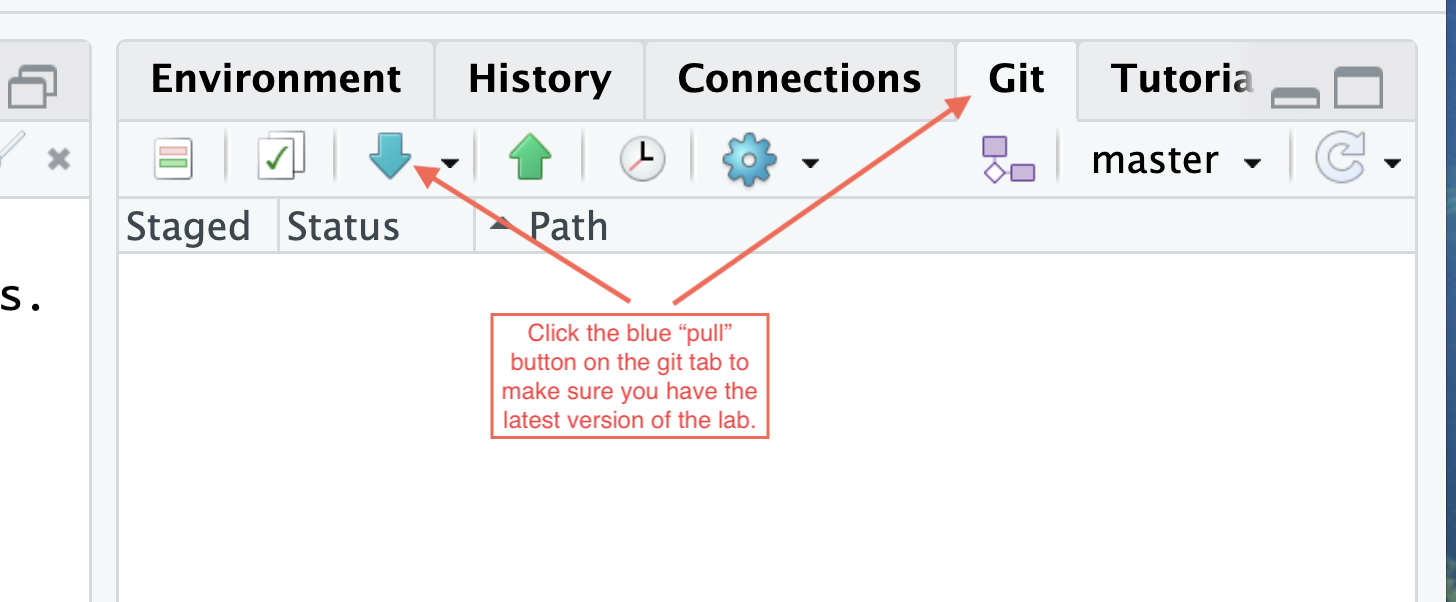
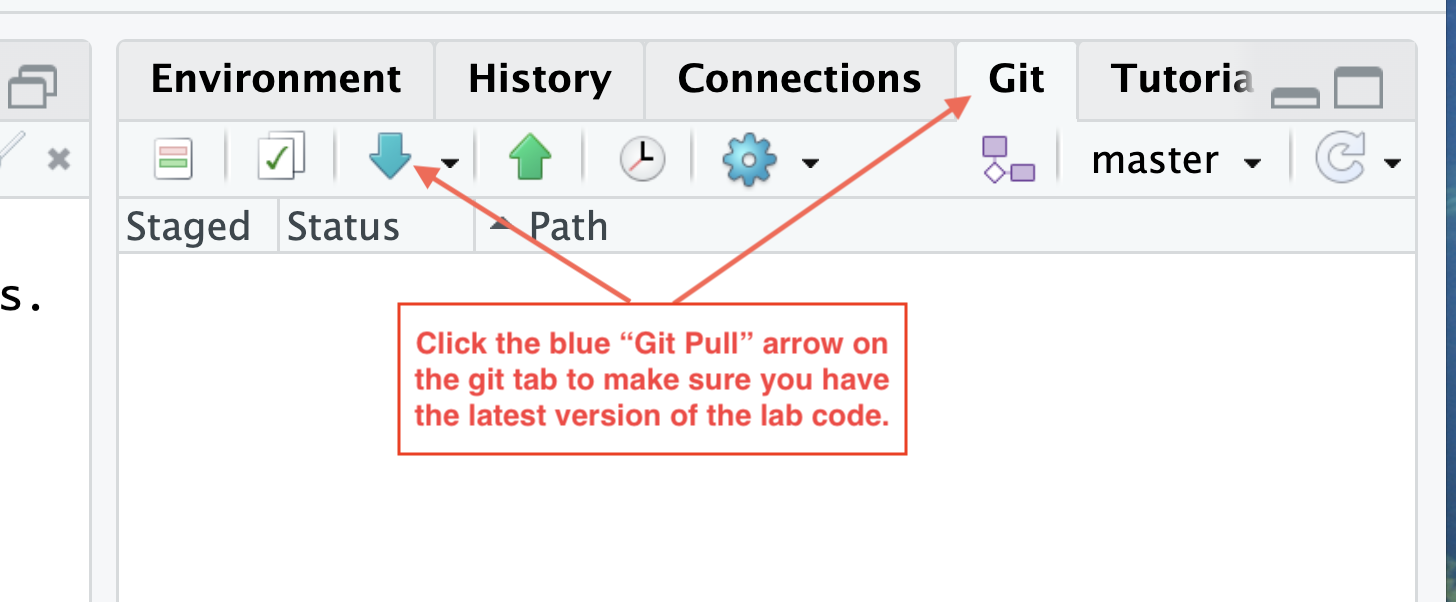
Updated intro to R

Changed region(s): [[0.2782, 0.4784, 0.6181, 0.7774]]

diff --git a/docs/labs/R/intro_to_rstudio.md b/docs/labs/R/intro_to_rstudio.md
@@ -10,9 +10,6 @@ nav_order: 1
 
 # Downloading and Installing R and RStudio
 
-## Resources for this project
-1. [R Markdown document](intro_to_rstudio.Rmd) called "The (very) basics of RStudio" for this exercise. You'll learn to use it below.
-
 ## What is R?
 
 R started as a free, open-source version of the statistical programming language S and S+. However, because it is open-source, many biologists have learned to use it and contributed to it and it is now the industry-standard statistical software. You can use it to do statistical analysis (not surprisingly), draw complex graphs, control other software, analyze DNA sequences and much more.
@@ -23,12 +20,24 @@ Because this is a biology class, we will only learn some very basic things about
 
 ## Choosing between RStudio and Posit Cloud
 
-There are 2 convenient ways to use R. I recommend the first option for this class:
-1. Use this option if you use a Mac or a PC for which you can install software. Do *both* of the following steps:
-   - Download and [install R](https://cloud.r-project.org/).
-   - Download and [install RStudio Desktop](https://rstudio.com/products/rstudio/download/). RStudio provides a nice user interface to R. R itself is much more difficult to use without such an interface, and RStudio is very good! Installation should be easy if you use Windows, MacOS, or (standard) Linux. If you use a Chromebook, you won't be able to install it and will have to use one of the online options.
-2. Use this option if you use a Chromebook, iPad or if you cannot install software to your computer.
-   - Use [Posit Cloud](https://posit.cloud/). This provides full functionality in a convenient web app. To use this option, you'll need to sign up for a free account. Although this option won't require you to install anything, you'll find that getting your files into and out of Posit Cloud more difficult than if you used the stand-alone apps in option 1. The user interface for Posit Cloud and RStudio are identical. You should be able to use Posit Cloud with an iPad, however getting files in and out is much more difficult, and you really should have a keyboard! Please use any computer other than an iPad.
+There are 2 convenient ways to use R. The first option is easiest and just requires you to sign up for a free online Posit Cloud account. Use the first option if you really aren't interested in installing software on your computer. Also, use the first option if you have a chromebook or iPad if if, for some reason, you are unable to install all the steps for the second option. The second option is a more 'standard' way to use R, will require a bit more setup, but will be easier and faster in the long run. 
+1. Online option. Use this option if you use a Chromebook, iPad or if you cannot install software to your computer.
+   - Use [Posit Cloud](https://posit.cloud/). This provides full functionality in a convenient web app. To use this option, you'll need to sign up for a free account. Although this option won't require you to install anything, you'll find that getting your files into and out of Posit Cloud more difficult than if you used the stand-alone apps in option 1. The user interface for Posit Cloud and RStudio are identical. You should be able to use Posit Cloud with an iPad, however getting files in and out is much more difficult, and you really should have a keyboard!
+2. Use this option if you use a Mac or a PC for which you can install software. Do *all 3* of the following steps:
+    1. Download and install a program called "git".
+        1. If you have a Mac:
+            1. Go to the app launcher and search for and start "Terminal.app". It is likely in your "Applications" folder in a subfolder called "Utilities".
+            2. Once Terminal is open, simply type "git --version". 
+                1. If the computer responds with something like "git version 2.50.1 (Apple Git-155)", then you have git and are ready to install R.
+                2. If the computer responds with something like "command not found: git", then your computer should prompt you with a dialog box to install it. You should just be able to follow directions. 
+        2. If you have a Windows PC:
+            1. Go to this website to [install Git](https://git-scm.com/install/)
+            2. Choose the "Windows" tab.
+            3. Choose either of "Git for Windows/x64 Setup" or "Git for Windows/ARM64 Setup." depending on your computer. You probably have an "x64" processor, so try that one. If it doesn't work, [check out this video](https://youtu.be/Z_lcEqomG0k) to determine which type you have.
+            4. Install git using the installer you just downloaded. 
+    2. Download and [install R](https://cloud.r-project.org/).
+    3. Download and [install RStudio Desktop](https://rstudio.com/products/rstudio/download/). RStudio provides a nice user interface to R. R itself is much more difficult to use without such an interface, and RStudio is very good! Installation should be easy if you use Windows, MacOS, or (standard) Linux. If you use a Chromebook, you won't be able to install it and will have to use the online option.
+
 
 ## Getting Started
 Please follow along by **actually doing** the steps listed below. You can't learn a new skill without practicing. Trust me, this will save you lots of frustration later on.
@@ -47,41 +56,29 @@ The simplest R files are called "R script" files that list, in order, the comman
 **Important note** It is possible to run R one command at a time, but it is **much** better to save your commands in a file. This will allow you to re-run the code easily if you decide to change anything, or if your underlying data changes.
 
 ## Getting Started -- loading an R Markdown file
-1. Download [this file](intro_to_rstudio.Rmd) and save it on your computer. I recommend you stay organized by starting a new folder (directory) for Rmd files for this class.
-    1. I *highly recommend* that you make a new directory (folder) on your computer to store Rmd files for this class. Believe me, this will make your life easier, so don't skip doing this.
-    2. Whenever you download an analysis file, save it into this newly-created directory and open it from there.
-2. Use the following steps for every lab in which we use R.
-3. If you are using a stand-alone version of RStudio
-   1. Go to the file menu, and select "Open File..."
-   2. Find the file where you saved it. It will open in the top-left quadrant.
-   3. Go to the "Session" menu and select "Set Working Directory" and then "To source file location" (Figure 6 above and 7 below.)
-4. If you are using Posit Cloud
-   1. Go to "Your Workspace" (see red boxes in Figure 2).
-       {% include figure.html url="/b40/assets/labs/01_LoadingFilesRstudio.png" width="80%" caption="Figure 2. Loading files in Posit Cloud" %}
-   2. Click on "New Project". R will start.
-   3. In the bottom-right quadrant, choose "Upload" and direct Posit Cloud to the file you downloaded and saved on your computer.
-         {% include figure.html url="/b40/assets/labs/01_UploadButton.png" width="80%" caption="Figure 3. Location of Upload button" %}
-   4. You will see that file appear in the list of files. Click on it and it will open in the top-left quadrant.
-         {% include figure.html url="/b40/assets/labs/01_InstallKnitr.png" width="80%" caption="Figure 5. Location of uploaded file and Message to install Knitr" %}
-   5. You will *probably* be given a warning that a package called 'knitr' is required but not installed. Click install. It will install on the web server, not on your computer.
-   6. Go to the "Session" menu and select "Set Working Directory" and then "To source file location".
+1. Download the b40r project into Rby doing the following:
+    1. If you are using Posit Cloud, make sure you are in a workspace, and then on the right, choose "New Project" and then "New Project from Git Repository", then type or copy "https://github.com/senanu/b40r.git"
+    1. If you are using RStudio on your own computer, go to File>New Project>Version Control>Git and type or copy "https://github.com/senanu/b40r.git" into the dialog. In the "create project as subdirectory of" box, choose a place (folder/directory) on your computer where you'd like to save everything.
+1. In the bottom-right pane, select the "Files" tab. You should see a list of files and directories (folders), starting with a directory called ".github". All of the R Markdown files you need for this class will be located in the "R" directory. 
+    1. Click that "R" directory, and then **click the link to "intro_to_rstudio.Rmd"**. 
+    1. The file should open in the top-left pane.
+1. You will *probably* be given a yellow warning that a package called 'rmarkdown' and 'knitr' are required but not installed. Click "install" on the yellow banner. It will install on the web server, not on your computer.
+    {% include figure.html url="/b40/assets/labs/01_InstallKnitr.png" width="80%" caption="Figure 5. Location of uploaded file and Message to install Knitr" %}
+    
+### For each lab:
+1. Use the following steps for every lab in which we use R. This will help ensure that you have the newest files and that the data and objects you are working with are not accidentally saved from a previous lab.
+    1. Use Git to "Pull" the latest version of the code onto your computer. Click the blue down arrow in the "Git" tab of the top right pane.
+         {% include figure.html url="/b40/assets/labs/01_git_pull.png" width="80%" caption="Git pull to make sure you have the most up-tp-date code" %}
+    1. Go to the "Session" menu and select "Set Working Directory" and then "To source file location".
          {% include figure.html url="/b40/assets/labs/01_SetWorkingDirectory.png" width="80%" caption="Figure 6. Setting the working directory" %}
+    1. If there is a yellow banner asking you to install a new package, click "install"
+    1. Clear the cache. Click on the knitting needles and yarn ('knit') and then select "Clear Knitr Cache..." (see screenshot below)
+    1. Clear the environment. Click the 'broom' icon in the top-right panel within the "Environment" tab (see screenshot below)
+         {% include figure.html url="/b40/assets/labs/01_ClearCache.png" width="80%" caption="Figure 6. Setting the working directory" %}
+    1. Go to the Session menu, and click "Restart R"
 
+*You should now have the R Markdown file loaded into either RStudio or Posit Cloud.*
 
-You will need to do the above steps for every project we do. You should now have the R Markdown file loaded into either RStudio or Posit Cloud. It should look like the attached picture.
-
-## Installing packages
-R allows users to extend the language by writing 'packages' which contain commands for (often) specialized tasks. We will take advantage of a few of those. For now, the main one we need is called 'knitr'. If you are using Posit Cloud, you probably don't need to do this, but if you are using RStudio itself, you probably will.
-
-1. Depending on the file, you may see a yellow strip across the top indicating that you need to install a package. Simply click "install"
-     {% include figure.html url="/b40/assets/labs/01_Install_bar.png" width="80%" caption="Figure 8. Yellow strip indicating you need to install packages" %}
-2. If you don't see a yellow strip and you need to install packages, then in the lower-right quadrant, choose the "Packages" tab, then click "Install".
-     {% include figure.html url="/b40/assets/labs/01_InstallKnitr2.png" width="80%" caption="Figure 7. Installing packages (knitr in this case)" %}
-3. In the pop-up dialog box, type "knitr", then click "Install"
-4. You will see messages scroll up in the lower-left quadrant. Near the end, it should say "* Done (knitr)".
-
-
-Once a package is installed, you shouldn't have to install it again (unless you do lots of upgrading at a later date)
 
 ## Using R Markdown files
 Now we will look at how to use the R Markdown files. As mentioned above, these files combine code with comments. The comments help us communicate in natural language what we are trying to do with code, in order for another person to be able to understand the code quickly. It is useful to include comments for your own code, because if you look at it a few weeks later, you may struggle to figure out what and why you did what you did.

diff --git a/docs/bio40_schedule.md b/docs/bio40_schedule.md
@@ -57,7 +57,7 @@ table th:nth-of-type(4) {
 | Jan 12 | Intro/Welcome What is life? | [Syllabus]({{site.url}}/b40/docs/bio40.html)<br> [Chapter 1 – 1.5]({{site.url}}/b40/docs/ch01/ch01.html) |  |
 | Jan 14 | Intro to scientific inquiry | [Chap 1.6]({{site.url}}/b40/docs/ch01/ch01.html)<br> BioSkills 1 (P. 21 (7e); P. 19 (6e)): Measurements<br> Chap 9 of [Zen & the art...]({{site.url}}/b40/assets/ch01/ZenAndTheArt_embedded.pdf)<br> Watch [HHMI video on Pocket Mice](https://www.biointeractive.org/classroom-resources/making-fittest-natural-selection-and-adaptation) | Lots of reading for today.  Give yourself time for it. Measurements lab. |
 | Jan 19 | No Class – MLK day |  |  |
-| Jan 21 | Chemical Basis of life | [Chap 2.1]({{markdown site.url}}/b40/docs/ch02/ch02.html)<br> BioSkills 14: Chemical structures | R lab: Bring a computer  Primary Literature Lab |
+| Jan 21 | Chemical Basis of life | [Chap 2.1]({{site.url}}/b40/docs/ch02/ch02.html)<br> BioSkills 14: Chemical structures | R lab: Bring a computer  Primary Literature Lab |
 | Jan 26 | Water and life | [Chap 2.2 – 2.5]({{site.url}}/b40/docs/ch02/ch02.html)<br> Bioskills 16: Primary literature |  |
 | Jan 28 | Proteins | [Chap 3]({{site.url}}/b40/docs/ch03/ch03.html) | Protein lab (full lab report required) |
 | Feb 02 | Nucleic acids | [Chap 4]({{site.url}}/b40/docs/ch04/ch04.html)<br> Bioskills 2: Graphs<br> Bioskills 8: Spectrophotometry<br> |  |
